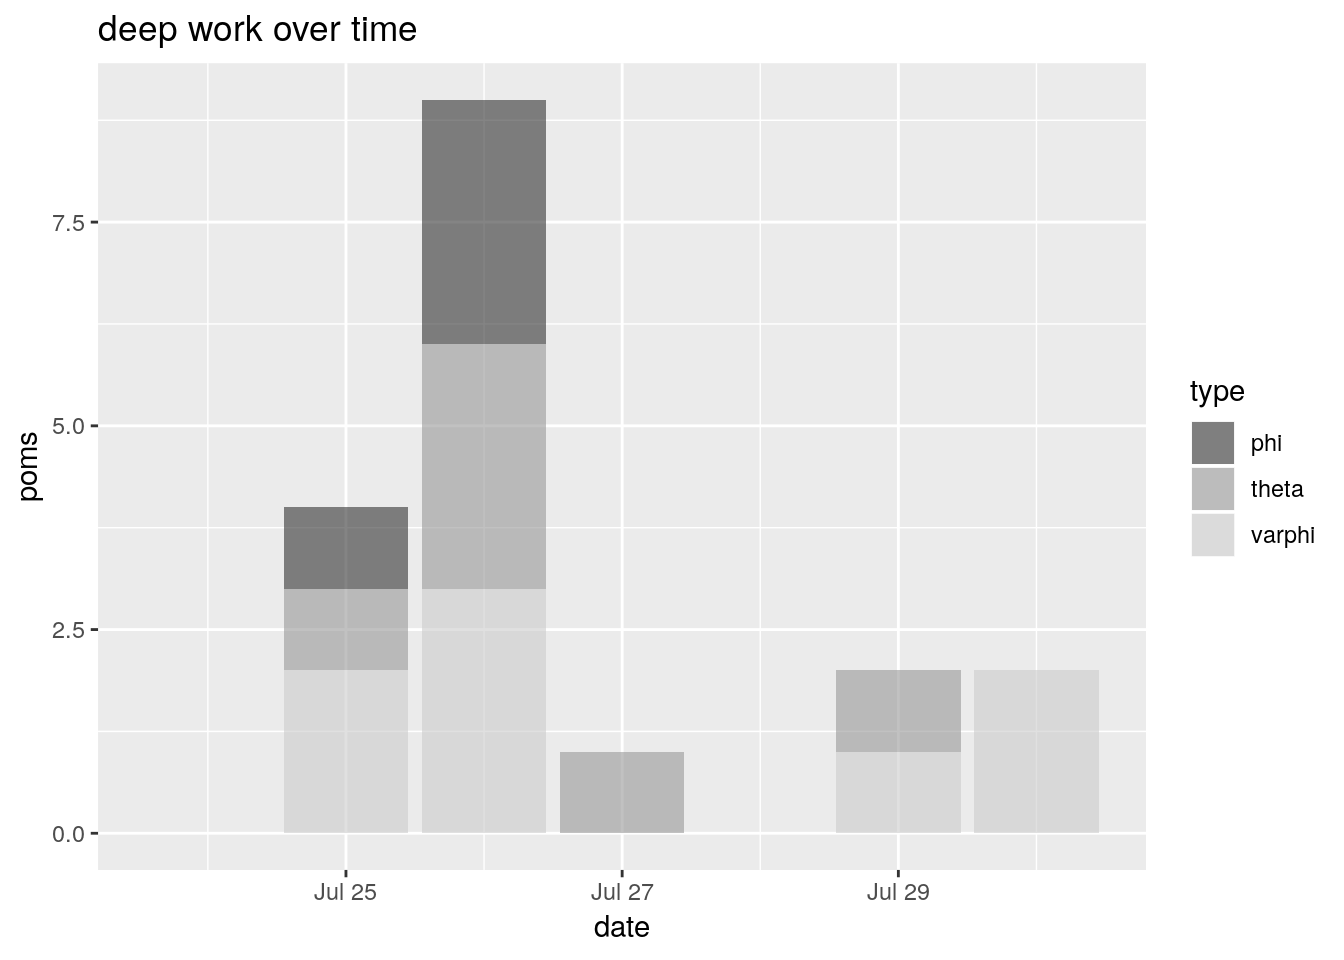
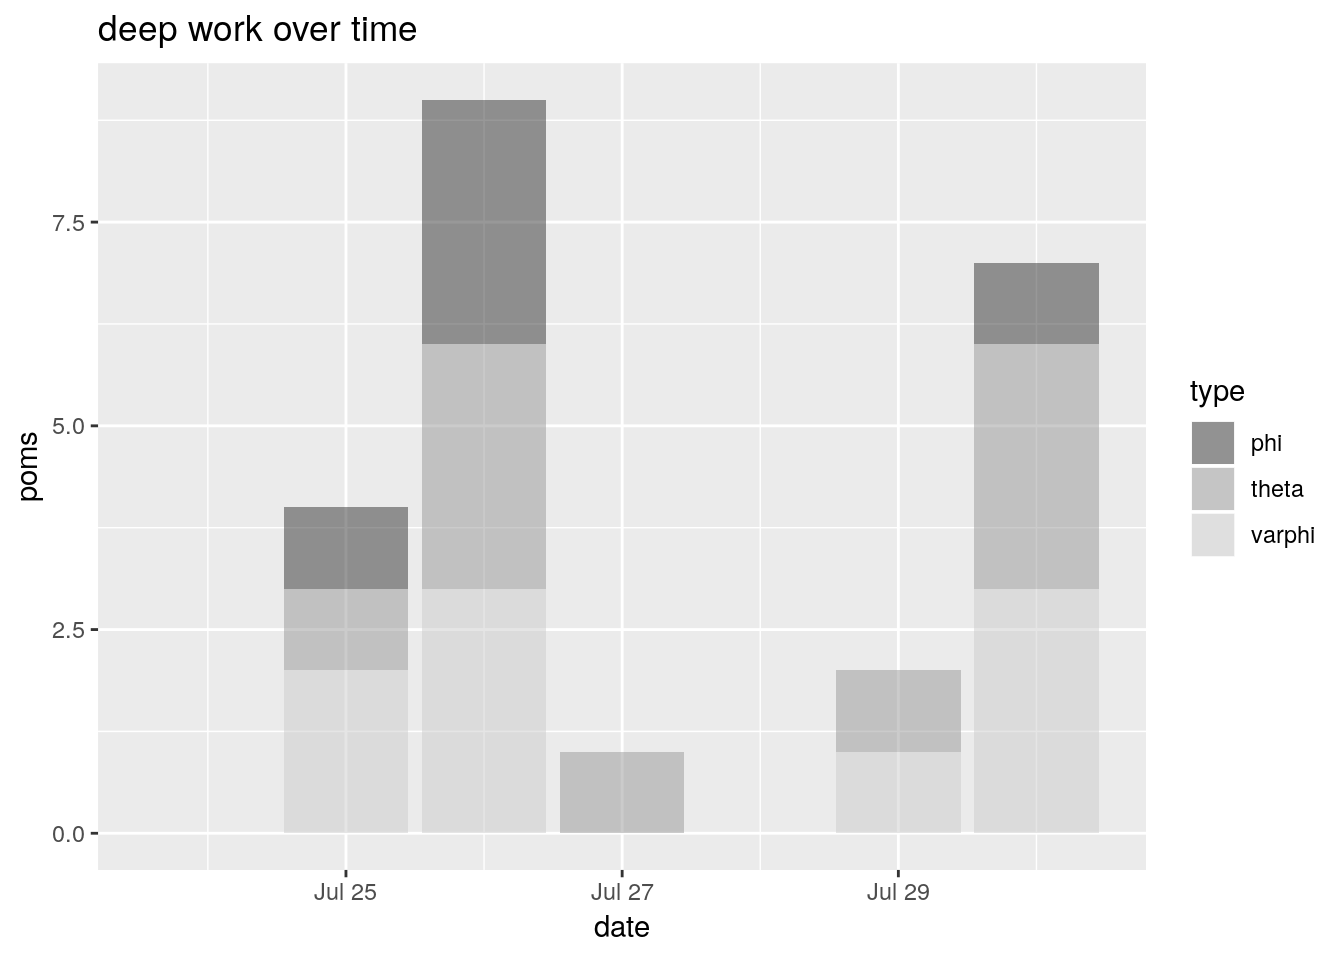
#41 updated measures on wrong branch :notes:

Changed region(s): [[0.7188, 0.25, 0.8438, 0.625]]

diff --git a/public/1/01/01/index.html b/public/1/01/01/index.html
@@ -1,35 +1,59 @@
-<p>I believe that all people struggle with adulting, and that no one is perfect. Although my lifetime has shaped me as noticably different to many people, for the first time in a long while I feel I’ve been able to make use of my strengths.</p>
-<center>
-<blockquote class="twitter-tweet" data-lang="en">
-<p lang="en" dir="ltr">
-<strong>never</strong> been so proud <a href="https://twitter.com/hashtag/choosemaths?src=hash&amp;ref_src=twsrc%5Etfw">#choosemaths</a> <a href="https://t.co/8gptuDY4Dy">https://t.co/8gptuDY4Dy</a>
-</p>
-— Charles T. Gray (<span class="citation">@cantabile</span>) <a href="https://twitter.com/cantabile/status/1018676269074923520?ref_src=twsrc%5Etfw">July 16, 2018</a>
+<pre class="r"><code># packages
+
+library(tidyverse)</code></pre>
+<div id="meta-parameters" class="section level2">
+<h2>meta-parameters</h2>
+<p>I want to (re)run trials of simulations for:</p>
+<ul>
+<li>different sample sizes</li>
+<li>different distributions</li>
+<li>(also different arm adjustment in the meta-analysis simulation)</li>
+</ul>
+<pre class="r"><code>meta_parameters &lt;- list(
+  sample_size = c(15, 30),
+  distribution = list(
+    list(
+      dist = &quot;exp&quot;,
+      pars = list(rate = 2)
+    ),
+    list(
+      dist = &quot;lnorm&quot;,
+      pars = list(meanlog = 2, sdlog = 1)
+    )
+  )
+) %&gt;% purrr::cross()
+
+# take a look
+meta_parameters[1:2] %&gt;% str()</code></pre>
+<pre><code>## List of 2
+##  $ :List of 2
+##   ..$ sample_size : num 15
+##   ..$ distribution:List of 2
+##   .. ..$ dist: chr &quot;exp&quot;
+##   .. ..$ pars:List of 1
+##   .. .. ..$ rate: num 2
+##  $ :List of 2
+##   ..$ sample_size : num 30
+##   ..$ distribution:List of 2
+##   .. ..$ dist: chr &quot;exp&quot;
+##   .. ..$ pars:List of 1
+##   .. .. ..$ rate: num 2</code></pre>
+<pre class="r"><code>to_dist_fn &lt;- function(rdist, type = &quot;d&quot;) {
+  
+}   </code></pre>
+</div>
+<div id="bind-the-distributions-to-a-list" class="section level2">
+<h2>bind the distributions to a list</h2>
+</div>
+<div id="single-study-simulation" class="section level2">
+<h2>single-study simulation</h2>
+<div id="a-trial" class="section level3">
+<h3>a trial</h3>
+<blockquote>
+<p>go back to</p>
 </blockquote>
-<script async src="https://platform.twitter.com/widgets.js" charset="utf-8"></script>
-</center>
-<p>I may seem different but, to employ statistical parlance, conditioning on a lifetime of being socially demeaned<a href="#fn1" class="footnoteRef" id="fnref1"><sup>1</sup></a>, my bias from the point estimate of the expected value approximates zero. <a href="https://en.wikipedia.org/wiki/Forgotten_Australians">I am a textbook case</a>.</p>
-<p>It has helped me arrive at this. If we truly care about diversity in our community, then we need to allow for emotional diversity, too. Data science is just beginning to take off, and we have the unique opportunity of being there for what a community member I recently met called <em>The Golden Age of R</em>.</p>
-<p>How do we build empathy into our community as it grows?</p>
-<hr />
-<p>I live with <a href="https://www.sane.org/the-sane-blog/mental-illness/what-is-complex-ptsd">complex post traumatic stress disorder</a> and, among other things, despite my best efforts and a lifetime of therapy, I have a propensity for displays of emotion that transgress established mores. <em>Especially</em> the mores of emotion established in the disciplines of piano, mathematics, statistics, and computer science.</p>
-<p>When you endure trauma for a sustained amount of time, it can leave you with physical waves of what feels like an ocean of pain inside. It took me a very long time to learn that these waves do pass, and the more I accept that, the shorter and more infrequent they become.</p>
-<p>I am far from perfecting my coping mechanisms, but my efforts have resulted in a truly amazing lifetime so far<a href="#fn2" class="footnoteRef" id="fnref2"><sup>2</sup></a>.</p>
-<hr />
-<p>I struggle to escape painful memories, so mindful techniques for bringing myself back to the present moment are very useful to me. I use many things to cope: bullet journalling, complex productivity systems, yoga, walking, crafting, alcohol, talk therapy.</p>
-<p>More than anything, <strong>I use work to cope</strong>. And it has been stunningly effective. Thus, I have the isolating conundrum of owing my success to painful experiences that few I encounter in my working life can relate to.</p>
-<p>I spent twenty years as a musician, because I found the practice of music very soothing. I need my work to soothe me, or life would be unbearable. This is not the kind of disease you can cure, and it is easy for life’s little inadvertant incidences to trigger unwanted reminiscences. So, I must practice constant self-healing.</p>
-<p>Extreme trauma coping mechanisms aren’t all bad. I’d read more books by the time I was fourteen than most adults I meet. I spent five years as a political activist, screaming down megaphones and occupying buildings. I studied at one of the most prestigious music institutions in the country, and spent a decade as a professional pianist. I hitchhiked Australia for three years, and backpacked through South India, alone. I’ve published short works of fiction, and arranged music for chamber orchestras.</p>
-<p>I fell in love with mathematics, and now do a great deal of public speaking where I share my passion for mathematical science with other women. I have lectured more subjects and done more teaching from pure mathematics to applied statistics than any other phd student I’ve encountered.</p>
-<p>I am now writing my third thesis. My first was in postcolonial film musicology, the second a category theory framed question that shifted a mathematical ordering system from graphs to algebras, and my third, in progress, is in statistical data science.</p>
-<hr />
-<p>I believe my unusual life has left me with more positive quirks than negative. Recently, through the community, I’ve begun sharing my teaching and collaboration ideas, with a strong focus on inclusivity, and it’s been really positive. I believe emotional diversity can enrich the community, especially in fostering empathy.</p>
-<p>And that’s why I think ‘diversity’ needs to go beyond the colour of our skin or the gender box we tick on a form. Diversity needs to include everyone, at every point in their lives. When a beloved family member has died, when yet another person is being impacted by sexual harassment or bullying, when we’ve faced an inexplicable and horrific university politics that deprives a fantastic person of their grant.</p>
-<p>Emotional intensity can power an intellectual and professionally challeging career–so we should support people with high EQ along with those with high IQ. It’s okay to cry, when crying is the intelligent option. If we dismiss those who cry as overly ‘emotional’, we’ll never get emotional intelligence into our apps, our code, our programming. If we’re really committed to diversity, crying should be okay.</p>
-<div class="footnotes">
-<hr />
-<ol>
-<li id="fn1"><p>I now realise I need not be ashamed of why I changed my name. I changed my first name initially, and then at twenty-five, all of it. Why? Because I realised that for a decade no one I had known before I called the cops and walked out of my parents house wanted to know me. I made them uncomfortable, and my pain made them uncomfortable, so they avoided me, unwittingly repeating the behaviour of everyone who knew me. I changed my name because my name didn’t matter to anyone, and I was completely alone. So the one perk I had in the situation was to choose any name I liked. Make lemonade, and all that.<a href="#fnref1">↩</a></p></li>
-<li id="fn2"><p>Recently this was epitomised by delivering a useR! workshop directly across the road from the Conservatorium where I performed twenty years ago at the Brisbane Women’s Composers concert in 1998.<a href="#fnref2">↩</a></p></li>
-</ol>
+</div>
+</div>
+<div id="meta-analysis-simulation" class="section level2">
+<h2>meta-analysis simulation</h2>
 </div>

diff --git a/public/projects/measures/index.html b/public/projects/measures/index.html
@@ -127,8 +127,45 @@
     <div class="col-lg-8">
       <div class="content-column-content">
          <h1>measures.</h1>
-         <p><img src="../../projects/measures_files/figure-html/filled%20barchart%20over%20time-1.png" width="672" /></p>
+         <hr />
+<p><img src="../../projects/measures_files/figure-html/filled%20barchart%20over%20time-1.png" width="672" /></p>
 <p>I <a href="post/2018-07-06-index-cards-bujo-pomodoros">like</a> Newport’s term <a href="http://calnewport.com/books/deep-work/"><em>deep work</em></a>.</p>
+<hr />
+<p>How I’m going today:</p>
+<table>
+<caption><span id="tab:unnamed-chunk-1">Table 1: </span>today’s goals</caption>
+<thead>
+<tr class="header">
+<th align="left">type</th>
+<th align="center">poms</th>
+<th align="center">goal</th>
+<th align="right">success</th>
+</tr>
+</thead>
+<tbody>
+<tr class="odd">
+<td align="left">phi</td>
+<td align="center">1</td>
+<td align="center">4</td>
+<td align="right">FALSE</td>
+</tr>
+<tr class="even">
+<td align="left">theta</td>
+<td align="center">3</td>
+<td align="center">4</td>
+<td align="right">FALSE</td>
+</tr>
+<tr class="odd">
+<td align="left">varphi</td>
+<td align="center">3</td>
+<td align="center">4</td>
+<td align="right">FALSE</td>
+</tr>
+</tbody>
+</table>
+<hr />
+<p><img src="../../projects/measures_files/figure-html/goals-1.png" width="672" /></p>
+<hr />
 <pre><code>## # A tibble: 6 x 12
 ##   date       daily_review food  mood    phi theta varphi   pom goals
 ##   &lt;date&gt;     &lt;chr&gt;        &lt;chr&gt; &lt;chr&gt; &lt;int&gt; &lt;int&gt;  &lt;int&gt; &lt;int&gt; &lt;chr&gt;
@@ -137,7 +174,7 @@
 ## 3 2018-07-26 started      no r… not …     3     3      3    20 fini…
 ## 4 2018-07-27 started      no r… not …     0     1      0    20 fini…
 ## 5 2018-07-29 started      meh   not …     0     1      1    20 4 po…
-## 6 2018-07-30 started      so f… okay      0     0      2    20 4 po…
+## 6 2018-07-30 started      so f… okay      1     3      3    20 4 po…
 ## # ... with 3 more variables: phi_goal &lt;chr&gt;, theta_goal &lt;chr&gt;,
 ## #   varphi_goal &lt;chr&gt;</code></pre>
 

diff --git a/content/projects/measures.html b/content/projects/measures.html
@@ -5,8 +5,45 @@ output: html_document
 
 
 
+<hr />
 <p><img src="/projects/measures_files/figure-html/filled%20barchart%20over%20time-1.png" width="672" /></p>
 <p>I <a href="post/2018-07-06-index-cards-bujo-pomodoros">like</a> Newport’s term <a href="http://calnewport.com/books/deep-work/"><em>deep work</em></a>.</p>
+<hr />
+<p>How I’m going today:</p>
+<table>
+<caption><span id="tab:unnamed-chunk-1">Table 1: </span>today’s goals</caption>
+<thead>
+<tr class="header">
+<th align="left">type</th>
+<th align="center">poms</th>
+<th align="center">goal</th>
+<th align="right">success</th>
+</tr>
+</thead>
+<tbody>
+<tr class="odd">
+<td align="left">phi</td>
+<td align="center">1</td>
+<td align="center">4</td>
+<td align="right">FALSE</td>
+</tr>
+<tr class="even">
+<td align="left">theta</td>
+<td align="center">3</td>
+<td align="center">4</td>
+<td align="right">FALSE</td>
+</tr>
+<tr class="odd">
+<td align="left">varphi</td>
+<td align="center">3</td>
+<td align="center">4</td>
+<td align="right">FALSE</td>
+</tr>
+</tbody>
+</table>
+<hr />
+<p><img src="/projects/measures_files/figure-html/goals-1.png" width="672" /></p>
+<hr />
 <pre><code>## # A tibble: 6 x 12
 ##   date       daily_review food  mood    phi theta varphi   pom goals
 ##   &lt;date&gt;     &lt;chr&gt;        &lt;chr&gt; &lt;chr&gt; &lt;int&gt; &lt;int&gt;  &lt;int&gt; &lt;int&gt; &lt;chr&gt;
@@ -15,6 +52,6 @@ output: html_document
 ## 3 2018-07-26 started      no r… not …     3     3      3    20 fini…
 ## 4 2018-07-27 started      no r… not …     0     1      0    20 fini…
 ## 5 2018-07-29 started      meh   not …     0     1      1    20 4 po…
-## 6 2018-07-30 started      so f… okay      0     0      2    20 4 po…
+## 6 2018-07-30 started      so f… okay      1     3      3    20 4 po…
 ## # ... with 3 more variables: phi_goal &lt;chr&gt;, theta_goal &lt;chr&gt;,
 ## #   varphi_goal &lt;chr&gt;</code></pre>

diff --git a/public/projects/index.html b/public/projects/index.html
@@ -178,7 +178,8 @@ pieces  piano practice/task switching/pomodoor bullet journal, used to be as por
                             <p>
                                 
                                   I like Newport’s term deep work.
-## # A tibble: 6 x 12 ## date daily_review food mood phi theta varphi pom goals ## &lt;date&gt; &lt;chr&gt; &lt;chr&gt; &lt;chr&gt; &lt;int&gt; &lt;int&gt; &lt;int&gt; &lt;int&gt; &lt;chr&gt; ## 1 2018-07-24 started no r… not … 0 0 0 20 fini… ## 2 2018-07-25 started no r… not … 1 1 2 20 fini… ## 3 2018-07-26 started no r… not … 3 3 3 20 fini… ## 4 2018-07-27 started no r… not … 0 1 0 20 fini… ## 5 2018-07-29 started meh not … 0 1 1 20 4 po… ## 6 2018-07-30 started so f… okay 0 0 2 20 4 po… ## # .
+How I’m going today:
+ Table 1: today’s goals  type poms goal success    phi 1 4 FALSE  theta 3 4 FALSE  varphi 3 4 FALSE    ## # A tibble: 6 x 12 ## date daily_review food mood phi theta varphi pom goals ## &lt;date&gt; &lt;chr&gt; &lt;chr&gt; &lt;chr&gt; &lt;int&gt; &lt;int&gt; &lt;int&gt; &lt;int&gt; &lt;chr&gt; ## 1 2018-07-24 started no r… not … 0 0 0 20 fini… ## 2 2018-07-25 started no r… not … 1 1 2 20 fini… ## 3 2018-07-26 started no r… not … 3 3 3 20 fini… ## 4 2018-07-27 started no r… not … 0 1 0 20 fini… ## 5 2018-07-29 started meh not … 0 1 1 20 4 po… ## 6 2018-07-30 started so f… okay 1 3 3 20 4 po… ## # .
                                 
                             </p>
                           </div>

diff --git a/public/categories/productive-research/index.html b/public/categories/productive-research/index.html
@@ -191,26 +191,6 @@ Often I plan a talk better with pen and paper. I think I think clearer.
                   </div>
               </div>
           
-              <div class="col-xs-12 col-sm-6 col-md-4 col-lg-3 masonry-item">
-                  <div class="box-masonry">
-                      
-                      
-                      <div class="box-masonry-text">
-                      
-                          <h4><a href="../../projects/thoughts-and-time/">how I organise my thoughts and time</a></h4>
-                          <div class="box-masonry-description">
-                            <p>
-                                
-                                  my current systems Updated: 2018-07-30
-I wonder if all or some of this should move to the dontpanic readme.
-pieces  piano practice/task switching/pomodoor bullet journal, used to be as portable as possible blog to see if I’ve made any progress on my study problems for today, to track my productivity system, and to learn about my research problems; in short, blog for me, don’t worry about anyone else: but keep it to those three categories; one category per post, etc.
-                                
-                            </p>
-                          </div>
-                      </div>
-                  </div>
-              </div>
-          
         </div>
     </div>
 </div>

diff --git a/content/projects/thoughts-and-time.html b/content/projects/thoughts-and-time.html
@@ -3,12 +3,8 @@ title: "how I organise my thoughts and time"
 slug: "thoughts-and-time"
 author: "Charles T. Gray"
 date: "Infrequently updated"
-categories: productive-research
-output: 
-  html_document:
-    draft: true
-    toc: true
-    toc_float: true
+draft: true
+# categories: productive-research
 ---
 
 
